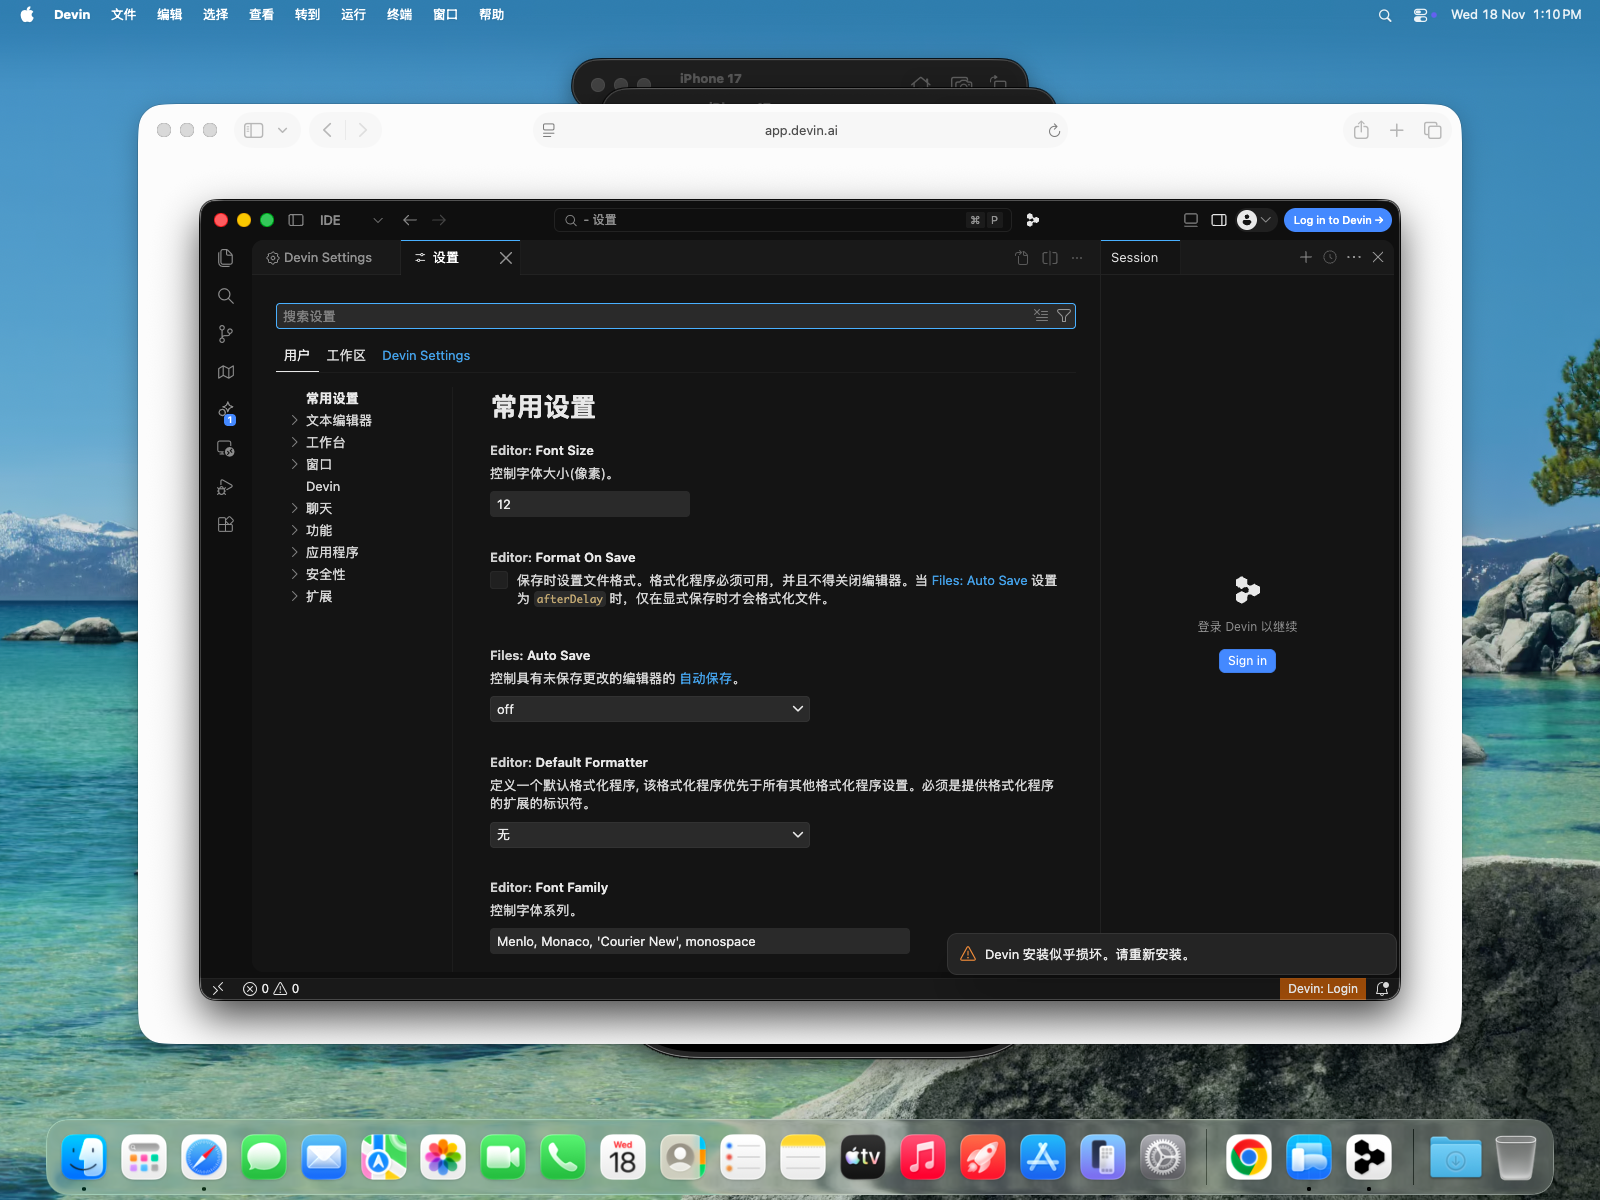
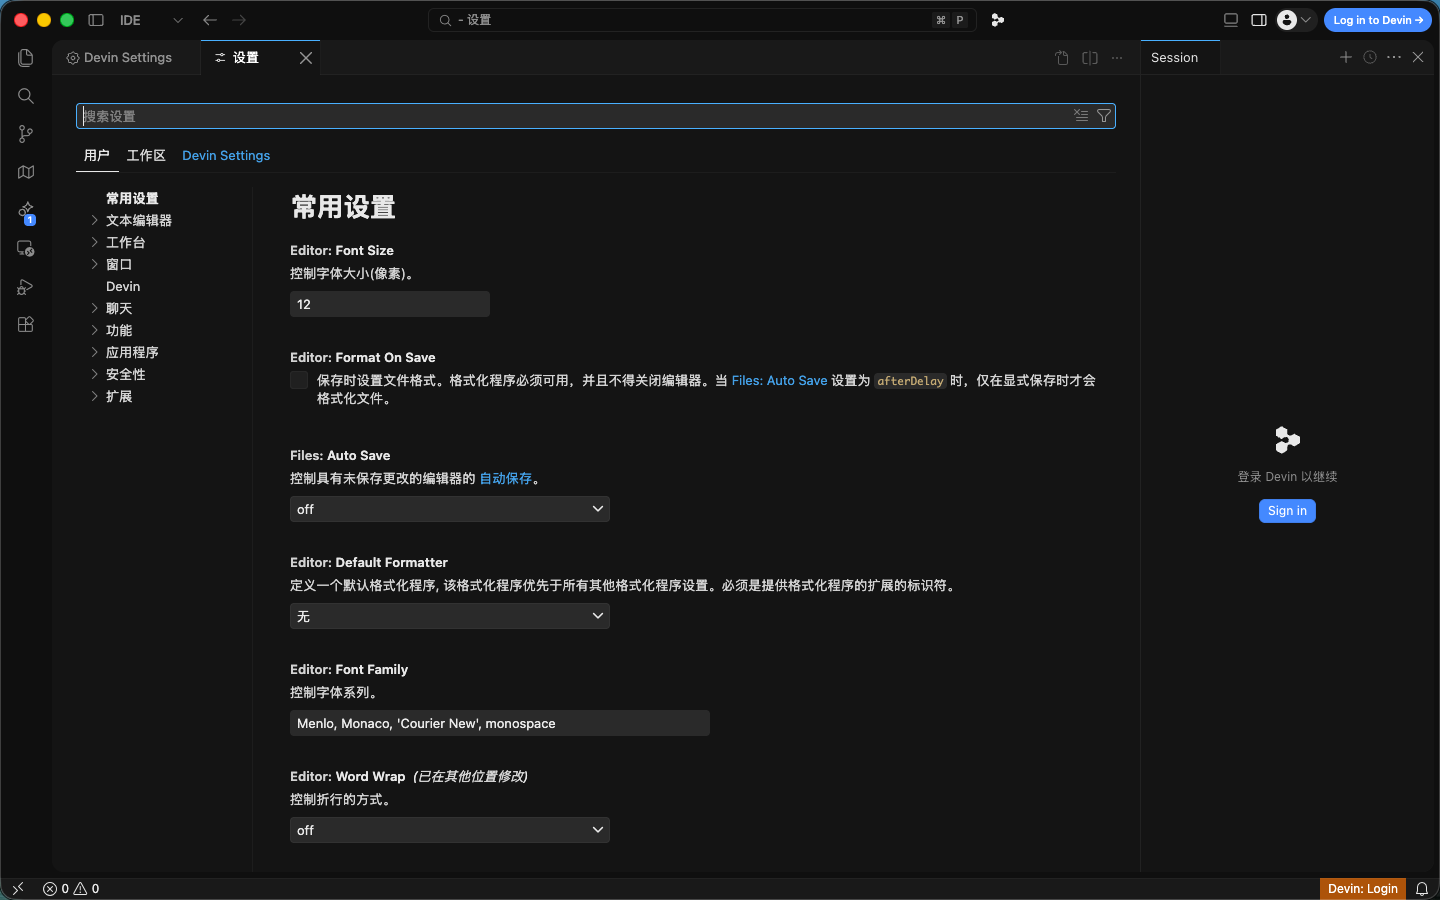
screenshots: clean recaptures (no stale toast), add fullscreen variant

diff --git a/README.en.md b/README.en.md
@@ -53,6 +53,10 @@ After two restarts: Command Palette → `Configure Display Language` → pick a 
 |---|---|
 | ![settings zh-CN](assets/screenshots/settings-zh-cn.png) | ![picker](assets/screenshots/language-picker.png) |
 
+| Full VM screen (zh-CN) |
+|---|
+| ![fullscreen zh-CN](assets/screenshots/fullscreen-zh-cn.png) |
+
 | Agent panel webview | Traditional Chinese (Taiwan) |
 |---|---|
 | ![agent webview](assets/screenshots/agent-webview.png) | ![zh-TW](assets/screenshots/zh-tw.png) |

diff --git a/README.md b/README.md
@@ -53,6 +53,10 @@ powershell -ExecutionPolicy Bypass -File install.ps1   # Windows
 |---|---|
 | ![设置 zh-CN](assets/screenshots/settings-zh-cn.png) | ![语言选择](assets/screenshots/language-picker.png) |
 
+| VM 全屏（zh-CN） |
+|---|
+| ![全屏 zh-CN](assets/screenshots/fullscreen-zh-cn.png) |
+
 | Agent 面板 webview | 繁體中文（台灣） |
 |---|---|
 | ![Agent webview](assets/screenshots/agent-webview.png) | ![zh-TW](assets/screenshots/zh-tw.png) |

diff --git a/README.zh-hk.md b/README.zh-hk.md
@@ -53,6 +53,10 @@ powershell -ExecutionPolicy Bypass -File install.ps1   # Windows
 |---|---|
 | ![設置 zh-CN](assets/screenshots/settings-zh-cn.png) | ![語言選擇](assets/screenshots/language-picker.png) |
 
+| VM 全屏（zh-CN） |
+|---|
+| ![全屏 zh-CN](assets/screenshots/fullscreen-zh-cn.png) |
+
 | Agent 面板 webview | 繁體中文（台灣） |
 |---|---|
 | ![Agent webview](assets/screenshots/agent-webview.png) | ![zh-TW](assets/screenshots/zh-tw.png) |

diff --git a/README.zh-tw.md b/README.zh-tw.md
@@ -53,6 +53,10 @@ powershell -ExecutionPolicy Bypass -File install.ps1   # Windows
 |---|---|
 | ![設定 zh-CN](assets/screenshots/settings-zh-cn.png) | ![語言選擇](assets/screenshots/language-picker.png) |
 
+| VM 全屏（zh-CN） |
+|---|
+| ![全屏 zh-CN](assets/screenshots/fullscreen-zh-cn.png) |
+
 | Agent 面板 webview | 繁體中文（台灣） |
 |---|---|
 | ![Agent webview](assets/screenshots/agent-webview.png) | ![zh-TW](assets/screenshots/zh-tw.png) |
